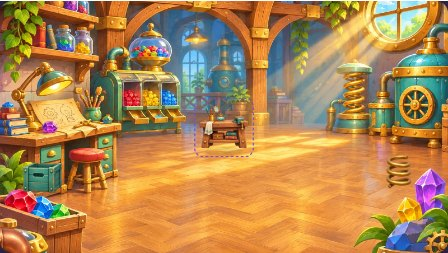
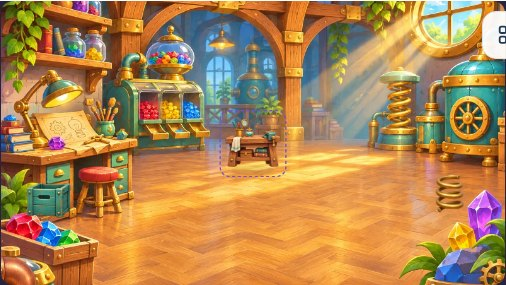
Keep reduced-motion playback controls alongside the portrait stage

diff --git a/src/creation/style.css b/src/creation/style.css
@@ -282,6 +282,13 @@ body.creation-editing .site-header.studio-practice-navigation,body.creation-edit
 @media (orientation:portrait) {
   .creation-workspace-grid { grid-template-columns:minmax(0,1fr); grid-template-rows:minmax(0,35fr) minmax(0,65fr); }
 }
+/* Preserve the full stage when the reduced-motion Step control shares a
+   portrait toolbar with playback status. Long status text can wrap in place. */
+@media (orientation:portrait) and (min-width:761px) and (max-width:900px) {
+  .creation-playbar { gap:6px; padding-inline:8px; }
+  .creation-playbar .creation-button { padding-inline:10px; }
+  #creationRunStatus { flex:1 1 8ch; min-width:0; }
+}
 @media (max-width:700px), (max-height:600px) {
   #creationCharacterTools { display:block; flex:none; align-self:flex-start; margin:6px 10px; color:#583093; }
   #creationCharacterTools[aria-expanded=false] + #creationCharacterPanel { display:none; }

diff --git a/docs/creation-studio/evidence/worlds/README.md b/docs/creation-studio/evidence/worlds/README.md
@@ -8,6 +8,8 @@ The reconciled implementation is based on PR #207 at `4be7c6dd70b588cfbd288cc8d7
 | Tablet, 820 × 1180 | [Before](before-tablet.jpg) | [Inventor’s Workshop](after-tablet.jpg) | [Tablet tiles](world-picker-tablet.jpg) |
 | Phone, 390 × 844 | [Before](before-phone.jpg) | [Moon Adventure](after-phone.jpg) | [Phone tiles](world-picker-phone.jpg) |
 
+At 768 × 1024 the reduced-motion Step control originally pushed playback status onto a second row, reducing the stage to 351 × 197 CSS pixels. The compact portrait toolbar keeps Step, status and the four other actions alongside the fitted 416 × 234 stage. [Reduced-motion portrait controls](portrait-step-controls.jpg)
+
 The four world views show the live canvas and a selectable, transparent, versioned object in each setting. The assembled layers share the original scene dimensions and center crop. The gallery thumbnail renders the kept placements and layer visibility. [Forest](stage-forest-desktop.jpg) · [Workshop](stage-workshop-desktop.jpg) · [Cloud Kingdom](stage-cloud-desktop.jpg) · [Moon](stage-moon-desktop.jpg) · [Expanded view](forest-expanded.jpg) · [Saved scene thumbnail](kept-world-preview.jpg)
 
 The mixed-art scene uses the approved Nook base image and a synthetic hand-drawn-style pebble streamed from the local owner’s private drawing store. The pebble was created solely for this browser test. Its exact image was selected and dragged alongside Nook using the ordinary editor controls. [Play capture](cloud-nook-and-child-style-pebble.jpg)
@@ -18,7 +20,7 @@ Build the ordinary application with `npm run build` and run `node tests/creation
 
 The desktop check also imports each of the four classic backgrounds and compares representative sky and ground pixels with samples taken from protected main. The browser compares scene pixels against the selected image layers at a grid of points outside actors. It requires at least 500 sampled locations and 99.5% agreement within two RGB units per channel. The comparison runs on all four worlds, on tablet and phone stages, with a foreground hidden and in full screen. It checks the exact backdrop version in exported scene-and-art data, a kept source after a copy is edited, and zero uncaught page errors on all three layouts. On desktop it waits for the service worker, disconnects Chromium, reloads the application, reopens that kept scene, plays it and compares the resulting project with its original pinned actors, world and layers.
 
[2 lines of base64/hex data omitted]
 
 The existing production-dist Creation browser journeys also exercised desktop and touch-emulated tablet block editing, source game continuity, tap actions, challenge reconstruction, mandatory learning guards and actual canvas video downloads. Eight recovery journeys covered import failure, rollback, backup and saved-draft recovery. Local browser review found a settings panel that could cover its dismissal, a select without an unambiguous spoken label, undersized scenery switches and a closed inspector that still occupied layout in Chromium. The current UI has a Done button, an explicit World label, 44-pixel checkbox targets and a closed inspector removed from layout.
 
